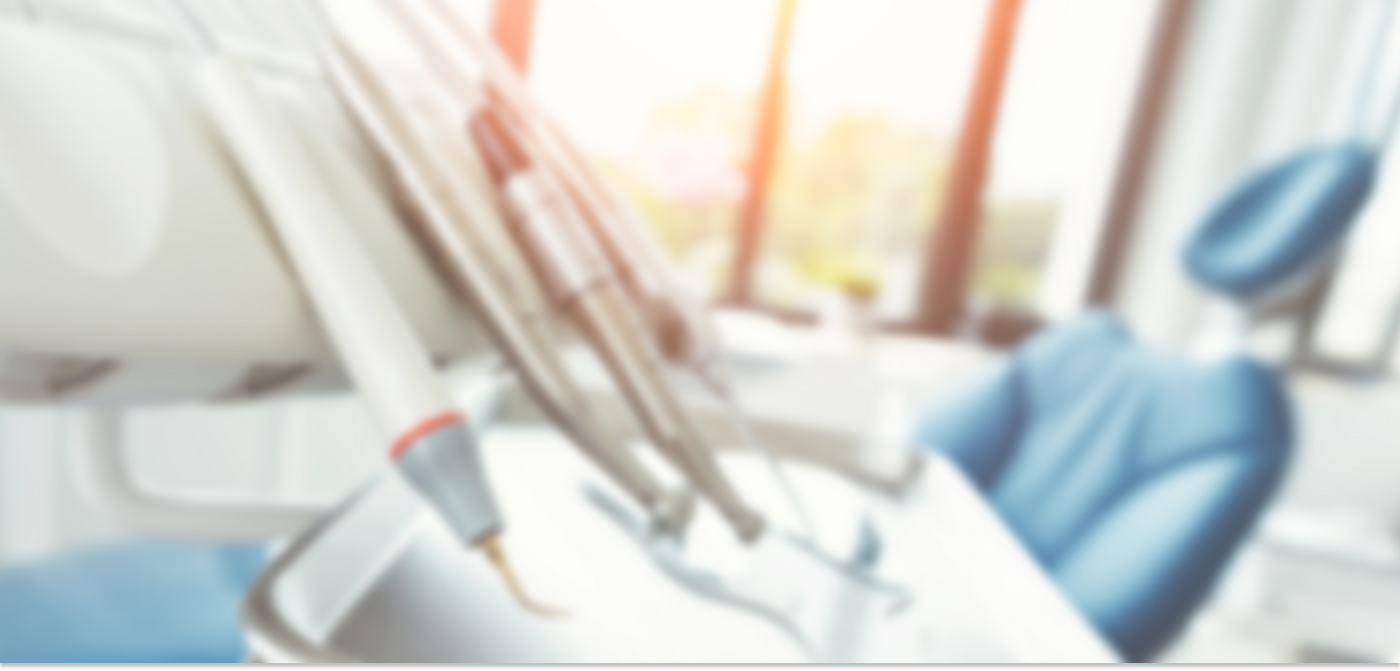
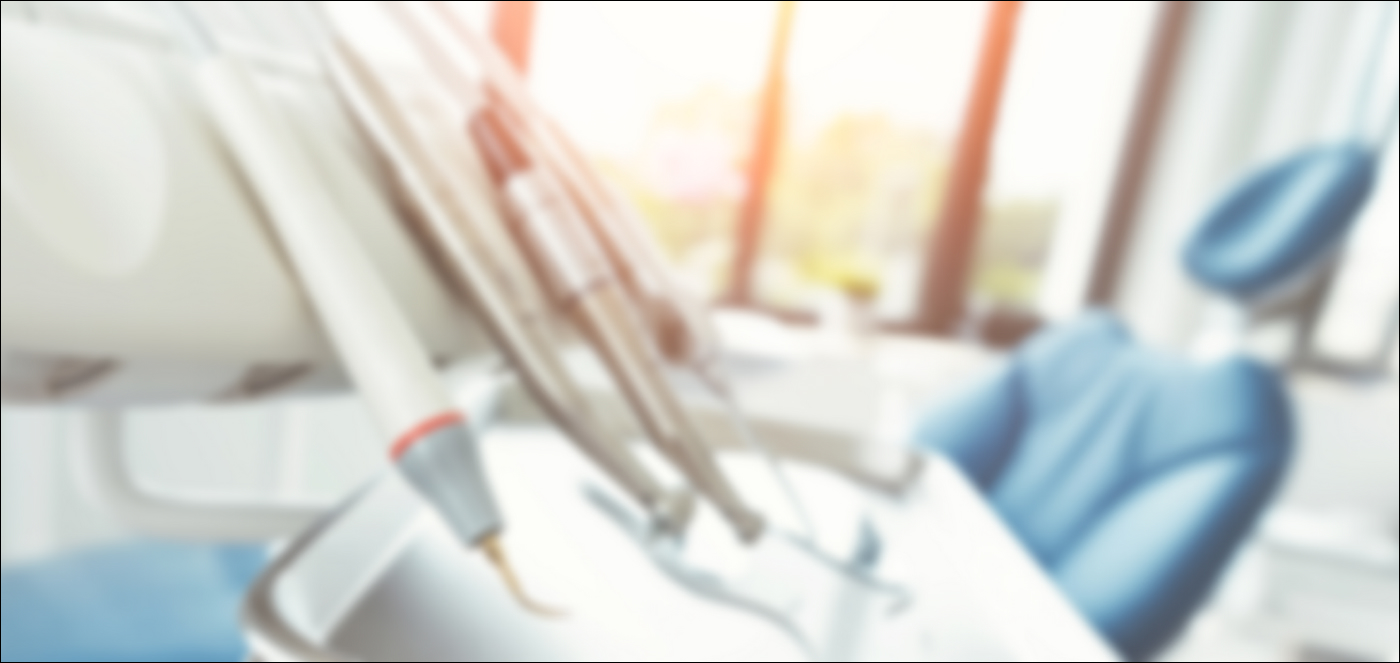
black phone + bcg

diff --git a/index.html b/index.html
@@ -25,7 +25,7 @@
                     </ul>
                 </nav>
                 <div class="tell">
-                        <img src="img/phone.svg" alt="phone" title="phone">
+                        <img src="/img/phone-black.svg" alt="phone" title="phone">
                         <a href="tel:+380999999999">+38 (099) 999-99-99</a>
                 </div>
                 <div class="language">
@@ -143,7 +143,7 @@
                                         <input type="text" name="" id="" placeholder="Your name" required>
                                     </div>
                                     <div class="phone-number user">
-                                        <img src="./img/phone.svg" alt="name">
+                                        <img src="./img/phone-black.svg" alt="name">
                                         <span></span>
                                         <input type="tel" name="tel" id="" placeholder="Phone number" required>
                                     </div>
@@ -220,7 +220,7 @@
                             <a href="">dr.NikTes</a>
                         </div>
                         <div class="email">
-                            <a href="mailto:dr.niktes@gmail.com"><img src="./img/email.png" alt="Email" title="email"></a>
+                            <a href="mailto:dr.niktes@gmail.com"><img src="./img/Email.png" alt="Email" title="email"></a>
                             <a href="">dr.niktes@gmail.com</a>
                         </div>
                     </div>

diff --git a/style/style12.css b/style/style12.css
@@ -130,6 +130,7 @@ ul {
 }
 .first-screen{
     background-image: url(../img/bgc.jpg);
+    border: 1px solid #000000;
     background-repeat: no-repeat;
     background-size: cover;
     max-width: 100%;
